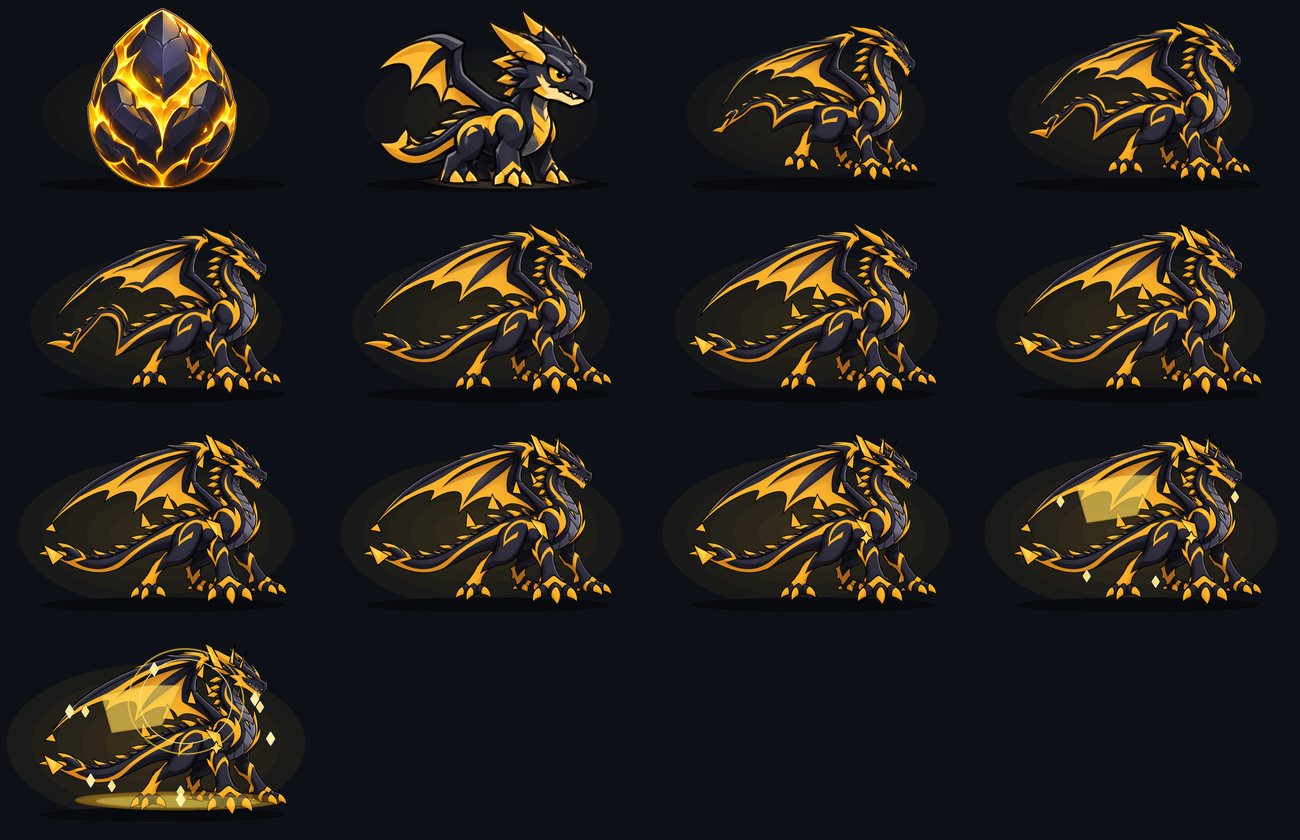
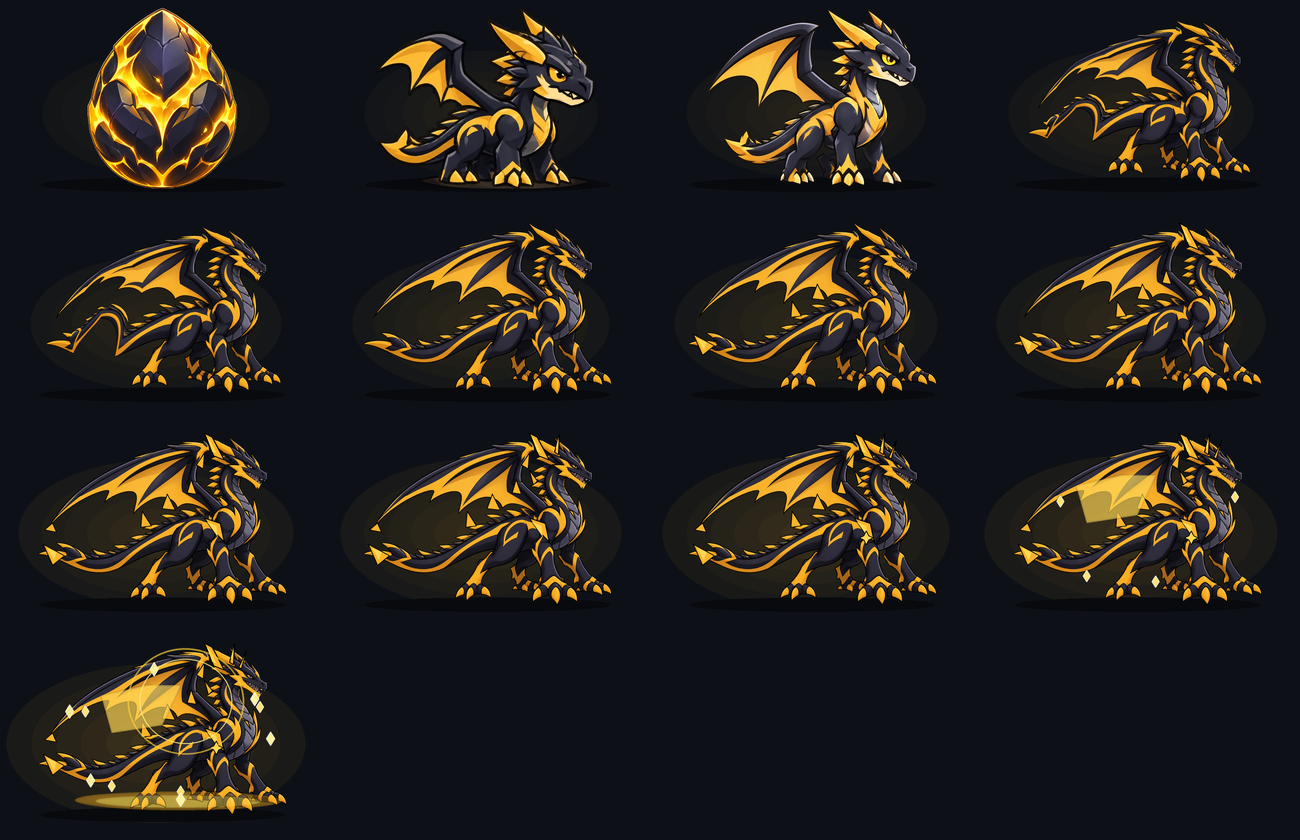
Update Stage 3 Youngling with authentic high-res illustrated dragon & kinematics

Changed region(s): [[0.5538, 0.0, 0.7077, 0.2167]]

diff --git a/drago/sprite_animator.py b/drago/sprite_animator.py
@@ -48,6 +48,8 @@ class SpriteAnimator:
         # Precision calibration for high-res master sprites
         if '02_hatchling' in self.sprite_path or getattr(self.state, 'stage_level', 0) == 2:
             return (int(w * 0.716), int(h * 0.294))  # ~ (425, 140) for 593x476
+        if '03_youngling' in self.sprite_path or getattr(self.state, 'stage_level', 0) == 3:
+            return (int(w * 0.825), int(h * 0.315))  # ~ (778, 252) for 944x801
         if '06_adult' in self.sprite_path or getattr(self.state, 'stage_level', 0) == 6:
             return (int(w * 0.806), int(h * 0.300))  # ~ (825, 205) for 1024x682
 
